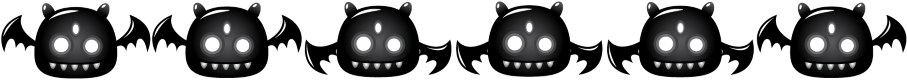
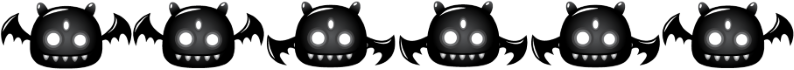
small changes

diff --git a/game/menu/howToPlayMenu.js b/game/menu/howToPlayMenu.js
@@ -662,7 +662,7 @@ export class HowToPlayMenu extends BaseMenu {
                     startY: 106,
                     textX: 460,
                     textY: 100,
-                    text: 'Dashing costs 10 Energy, dealing 3 damage for each dash. While dashing, you are immune to enemy damage and status effects (such as poison and slow)!”',
+                    text: 'Dashing costs 10 Energy, dealing 3 damage for each dash. While dashing, you are immune to enemy damage and status effects (such as poison and slow)!',
                     maxW: 670,
                 }),
 

diff --git a/game/menu/enemyLore.js b/game/menu/enemyLore.js
@@ -202,7 +202,7 @@ export class EnemyLore extends BaseMenu {
                 + "IT IS SPECULATED THAT VERTIBATS CAN DETECT FREQUENCIES NO OTHER CREATURE CAN, INCLUDING PARANORMAL FREQUENCIES, WHICH DRAWS THEM TO THIS HAUNTED LAND.\n"
                 + "AS SOON AS THEY DETECT MOVEMENT, THEY FALL ONTO THEIR TARGET.",
             images: [
-                this.createImage('vertibat', 151.166, 90, 0, 'right', 'top'),
+                this.createImage('vertibat', 132.3333333333333, 70, 0, 'right', 'top'),
             ],
             mapKey: "map2",
         });

diff --git a/game/entities/enemies/enemies.js b/game/entities/enemies/enemies.js
@@ -1719,7 +1719,7 @@ export class Dotter extends FlyingEnemy {
 
 export class Vertibat extends VerticalEnemy {
     constructor(game) {
-        super(game, 151.16666666, 90, 5, 'vertibat');
+        super(game, 132.3333333333333, 70, 5, 'vertibat');
         this.angle = 0;
         this.va = Math.random() * 0.1 + 0.1;
         this.amplitude = 3;
